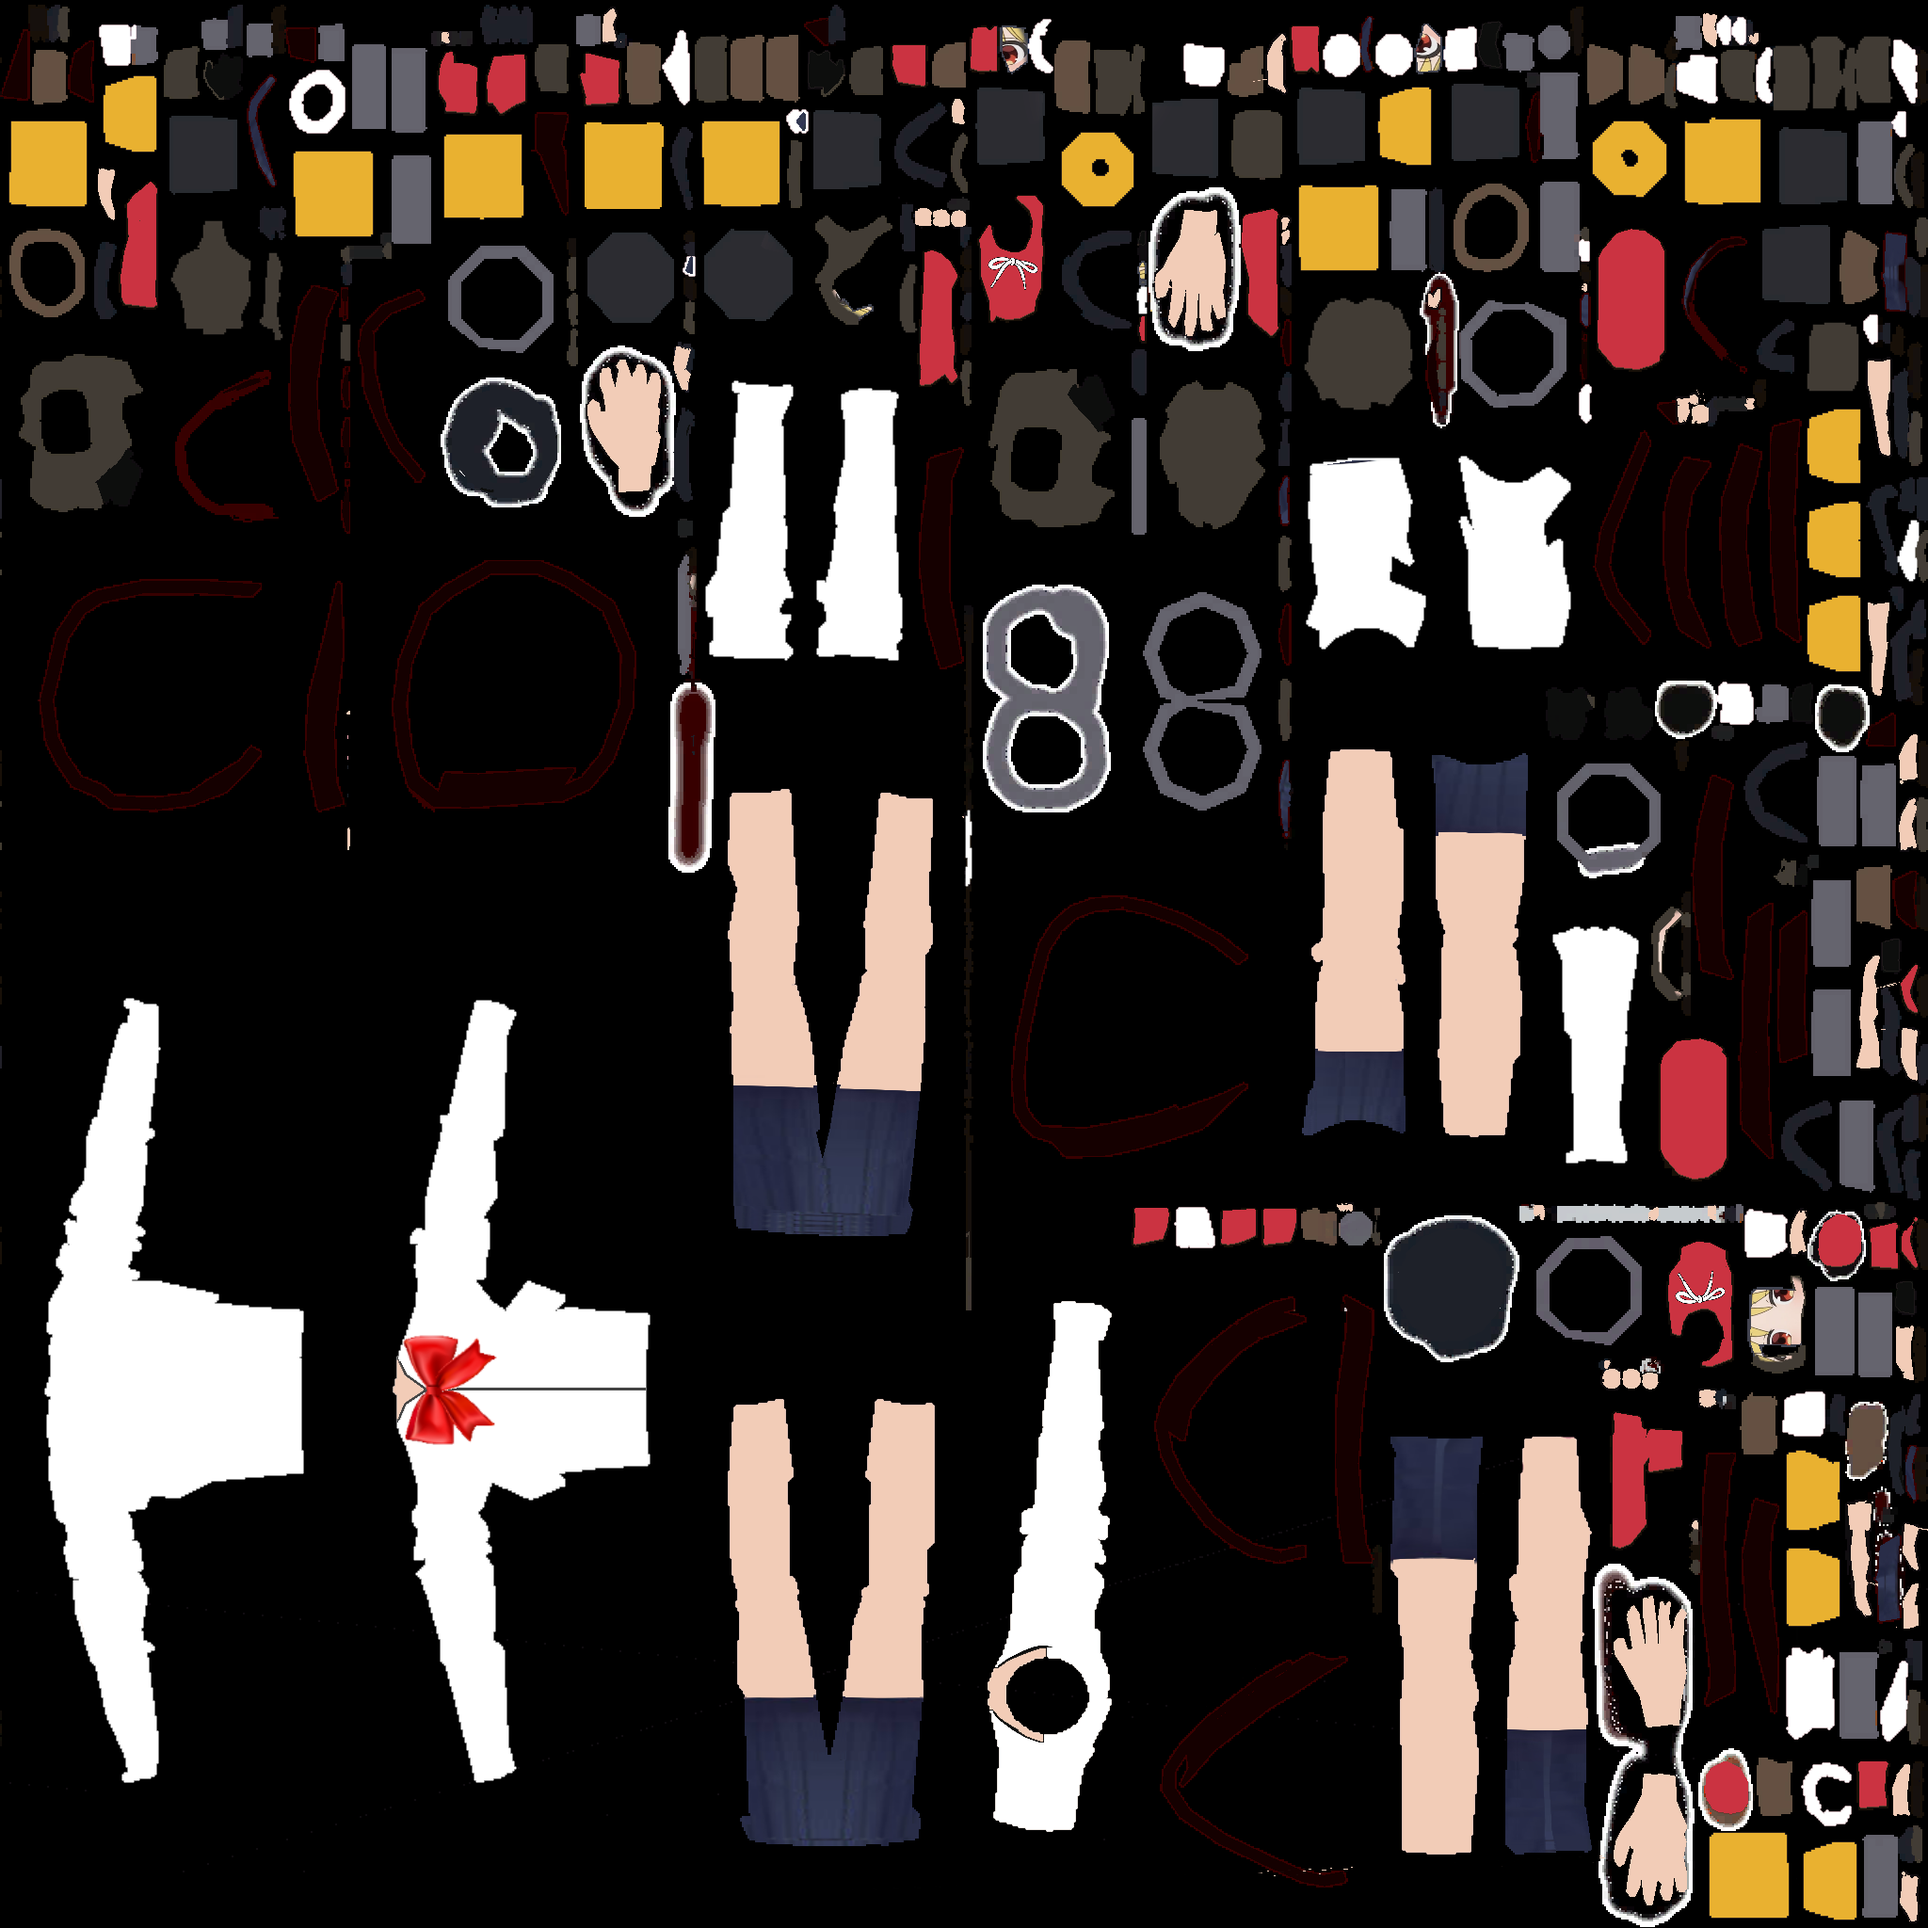
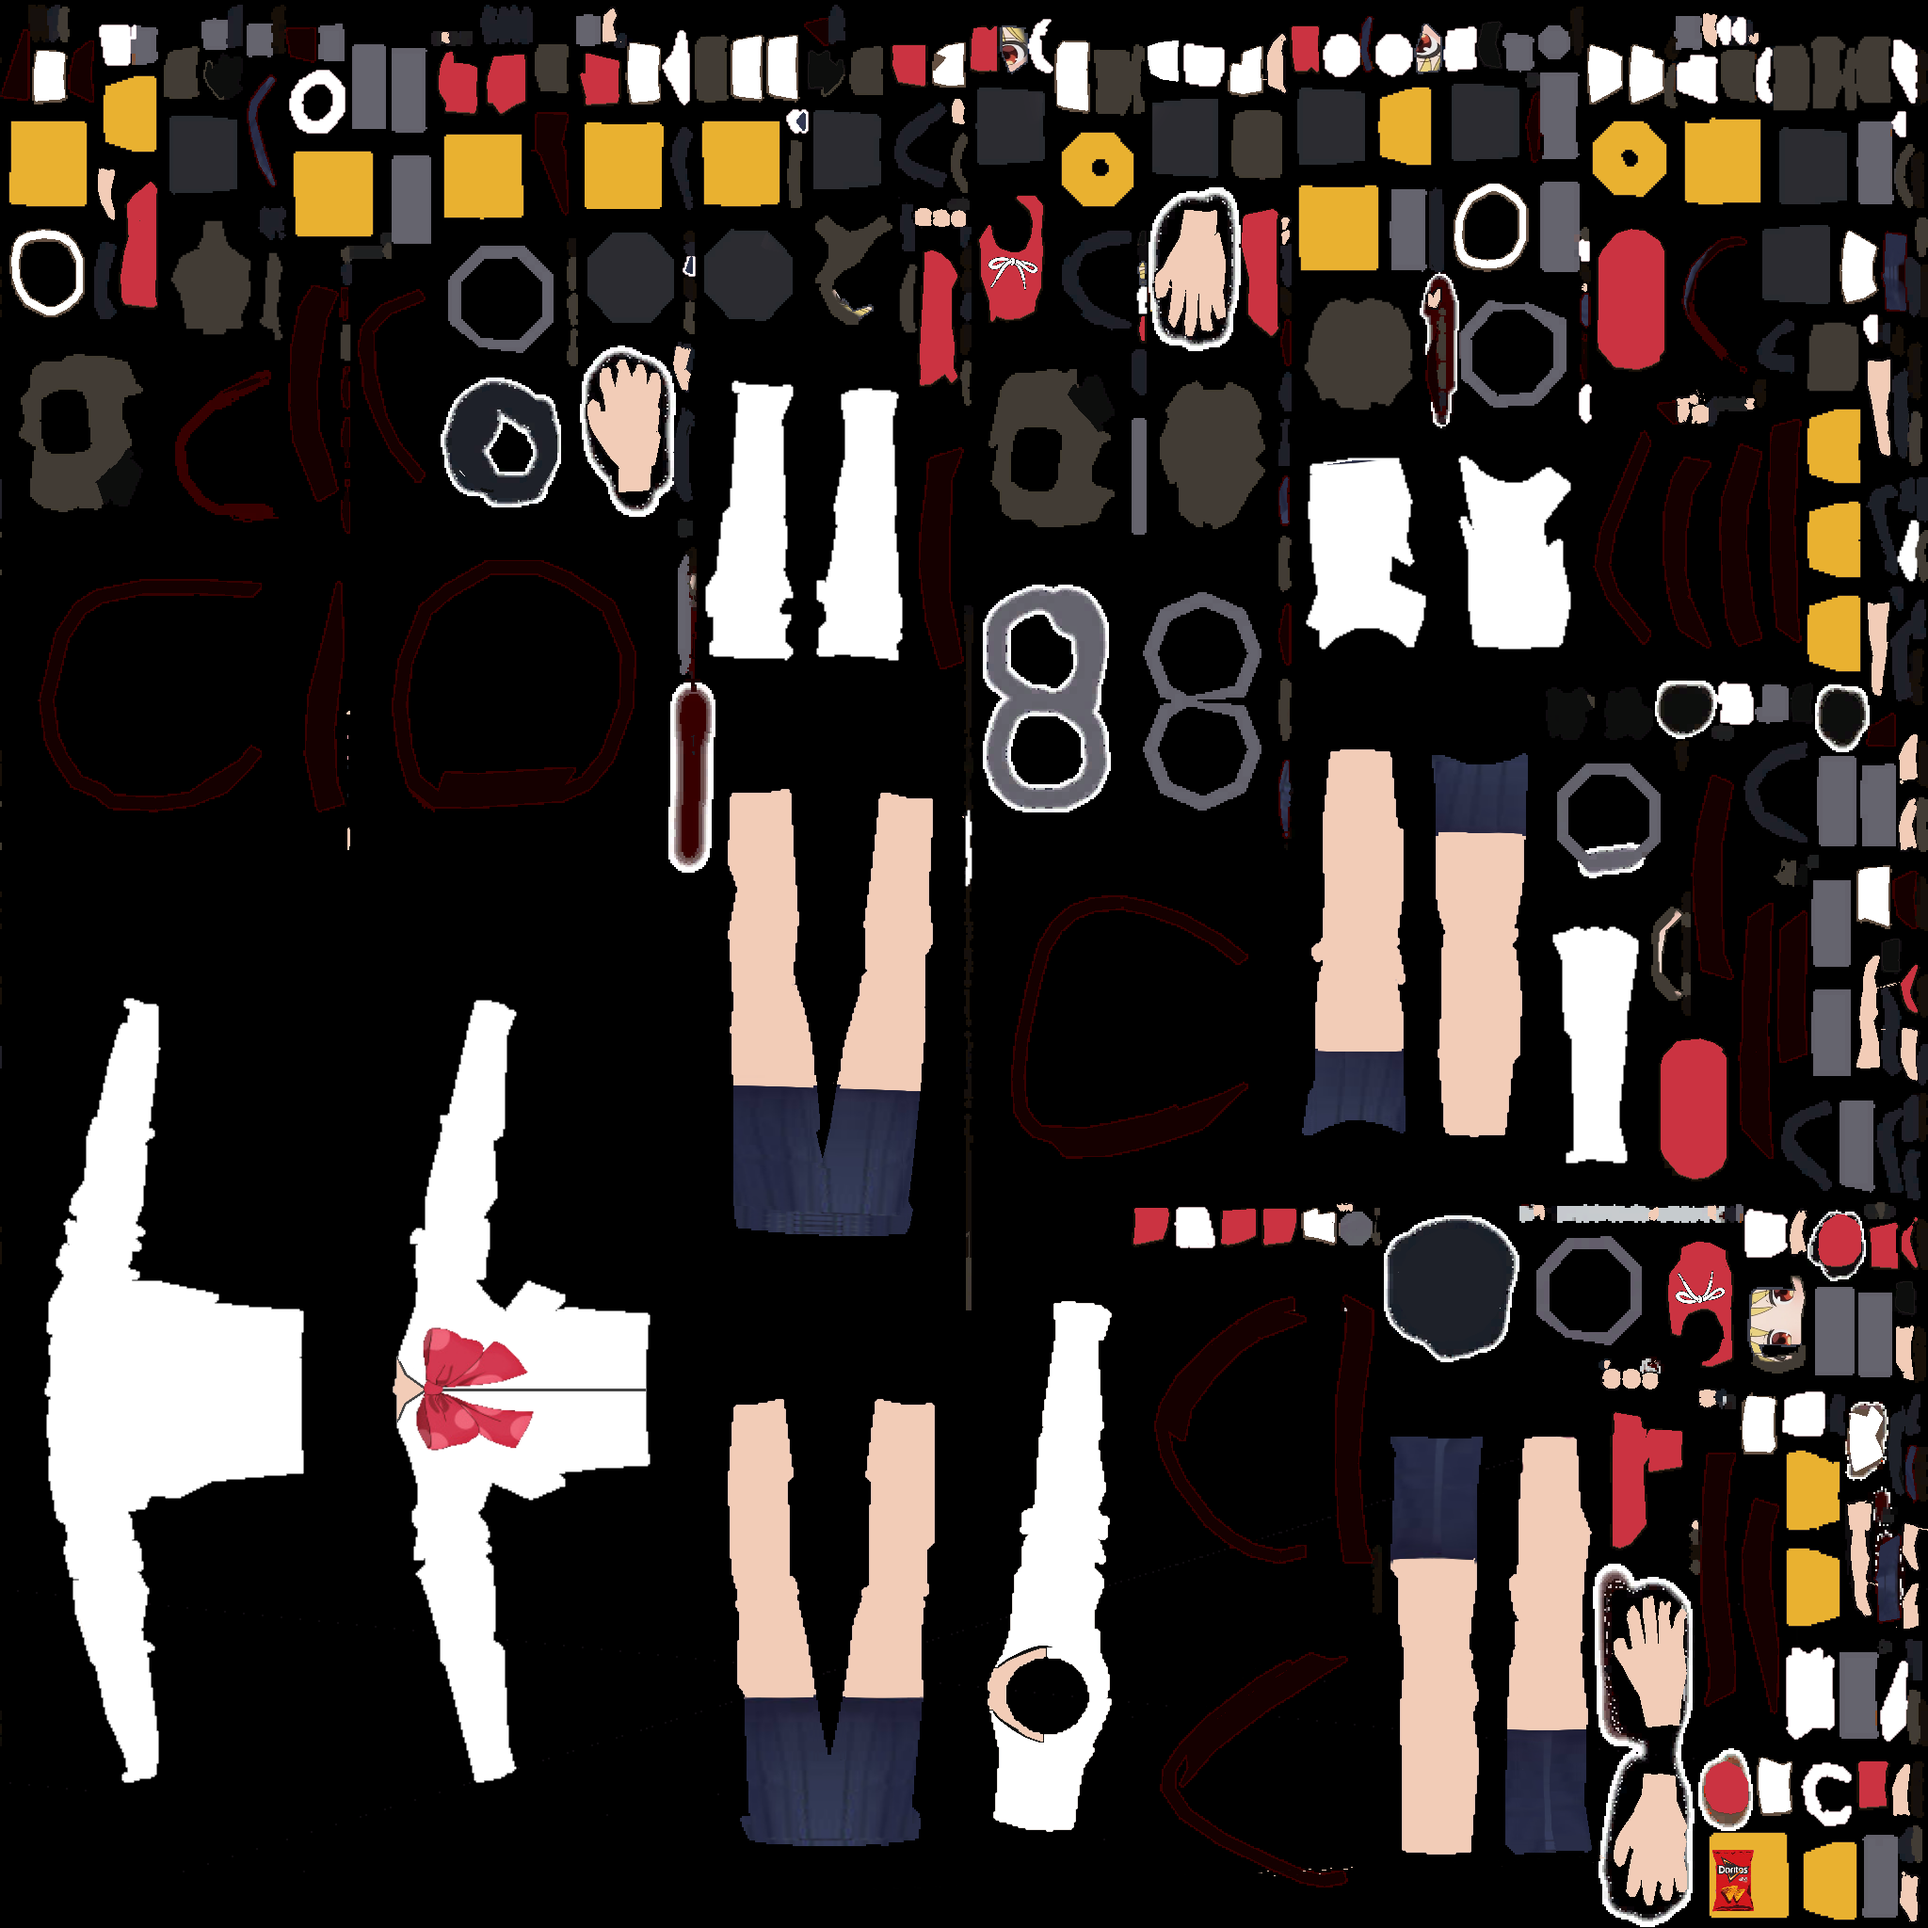
Nijika Revamp

diff --git a/README.md b/README.md
@@ -1,5 +1,15 @@
-# Bocchi Band Suits v1.1.0
+# Bocchi Band Suits v1.1.1
 ### Adds Bocchi the Rock! characters to Lethal Company as suits.
+
+#### v1.1.1
+```
+- Nijika Suit Revamp
+	- Reworked Bow
+	- Changed Sock Color
+	- Added Doritos
+```
+
+
 
 ## Instructions
 Place the ```TigaTiga25-Bocchi_Band_Suits-X.X.X``` folder in your ```BepInEx/Plugins``` folder.
@@ -31,6 +41,12 @@ Requires ```x735-More_Suits``` to work.
 
 ## Changelog
 ```
+- v1.1.1
+	- Nijika Suit Revamp
+		- Reworked Bow
+		- Changed Sock Color
+		- Added Doritos
+
 - v1.1.0
 	- Updated Version + Nijika Suit added
 
